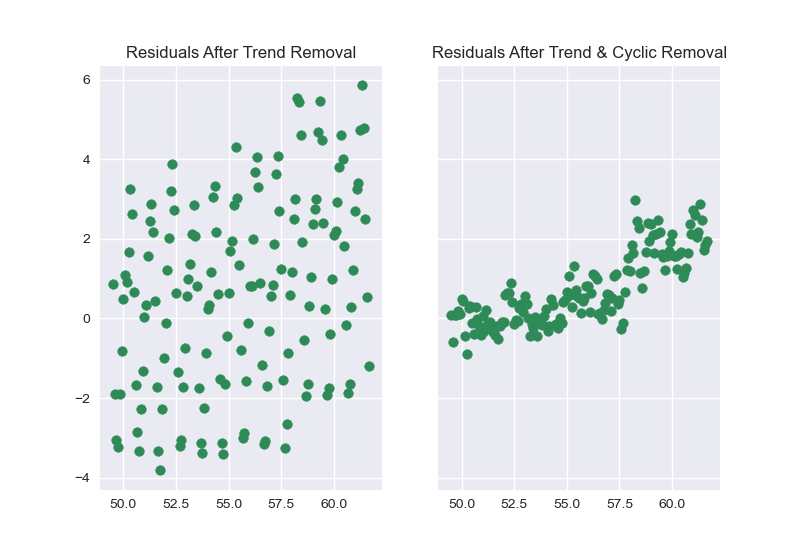
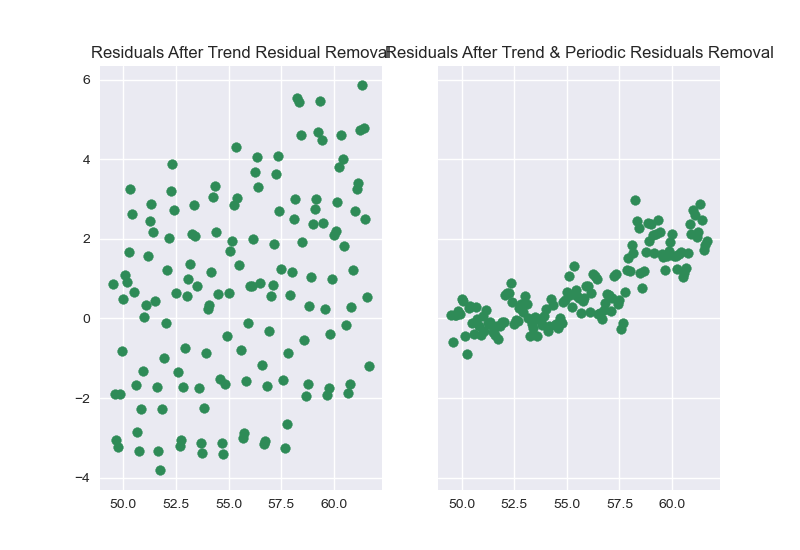
Modify docstrings and clean up function CO2_Model
Converted input arguments to tuples and outputs to dictionary to improve
code cleanliness

Changed region(s): [[0.125, 0.0618, 0.9688, 0.1236]]

diff --git a/CO2_Model.py b/CO2_Model.py
@@ -30,26 +30,27 @@ def load_data():
 
 
 def split_data(features, labels, split_frac=.8):
-    """Converts the feature and label Pandas series to numpy then splits into train and test sets"""
+    """Converts the feature (dates) and label (CO2) Pandas series to numpy then splits into train and test sets"""
     split_num = int(split_frac * len(features))
     features = features.to_numpy().reshape(-1, 1)
     labels = labels.to_numpy().reshape(-1, 1)
-    train_f = features[0:split_num]
-    test_f = features[split_num:]
-    train_l = labels[0:split_num]
-    test_l = labels[split_num:]
-    return train_f, test_f, train_l, test_l
+    train_date = features[0:split_num]
+    test_date = features[split_num:]
+    train_y = labels[0:split_num]
+    test_y = labels[split_num:]
+    return train_date, test_date, train_y, test_y
 
 
 def calc_error(y, predicted_y):
     ''' Computes the residuals, root mean squared error, and mean absolute percentage error'''
-    # TODO Add error_dict and return
+    error_dict = {}
     resid = np.zeros([len(y), 1])
     for i, (y_i, yp_i) in enumerate(zip(y, predicted_y)):
         resid[i] = y_i - yp_i
-    rmse = metrics.mean_squared_error(y, predicted_y) ** .5
-    mape = metrics.mean_absolute_percentage_error(y, predicted_y)
-    return resid, rmse, mape * 100
+    error_dict["resid"] = resid
+    error_dict["rmse"] = metrics.mean_squared_error(y, predicted_y) ** .5
+    error_dict["mape"] = 100 * metrics.mean_absolute_percentage_error(y, predicted_y)
+    return error_dict
 
 
 def interpolate1d_function(x, y, x_new):
@@ -58,56 +59,48 @@ def interpolate1d_function(x, y, x_new):
     return f(x_new)
 
 
-def poly_regression(x, y, test_x, test_y=None, degree=2, error=False):
+def linear_regression(x, test_x, y, test_y=None, error=False):
+    '''Performs linear regression fitted on x and y and returns the model parameters and predicted y
+    This will call the error function and return the error_dictionary if error=True
+    '''
+    lr = linear_model.LinearRegression()
+    lr.fit(x, y)
+    predicted_train_y = lr.predict(x)
+    predict_test_y = lr.predict(test_x)
+    linear_dict = {"coef":lr.coef_, "intercept": lr.intercept_,
+                   "predicted_train_y": predicted_train_y, "predicted_test_y": predict_test_y}
+    error_dict = calc_error(test_y, predict_test_y) if error else None
+    return linear_dict, error_dict
+
+
+def poly_regression(x, test_x, y, test_y=None, degree=2, error=False):
     '''Linearizes the values according to the degree of the polynomial and then calls linear regression
     This will call the error function and return the error_dictionary if error=True
     '''
     pr = PolynomialFeatures(degree=degree)
     x_poly = pr.fit_transform(x)
     test_x_poly = pr.fit_transform(test_x)
-    coef, intercept, predicted_y, predict_test_y = linear_regression(x_poly, y, test_x_poly, test_y)
-    # TODO remove if statement and put outputs in a dictionary
-    # error_dict = calc_error(test_y, predict_test_y) if error else None
-    # return coef, intercept, predicted_y, predict_test_y, error_dict
-    if error:
-        resid, rmse, mape = calc_error(test_y, predict_test_y)
-        return coef, intercept, predicted_y, predict_test_y, resid, rmse, mape
-    else:
-        return coef, intercept, predicted_y, predict_test_y
+    poly_dict, _ = linear_regression(x_poly, test_x_poly, y, test_y)
+    error_dict = calc_error(test_y, poly_dict["predicted_test_y"]) if error else None
+    return poly_dict, error_dict
 
 
-def linear_regression(x, y, test_x, test_y=None, error=False):
-    '''Performs linear regression fitted on x and y and returns the model parameters and predicted y
-    This will call the error function and return the error_dictionary if error=True
-    '''
-    lr = linear_model.LinearRegression()
-    lr.fit(x, y)
-    predicted_y = lr.predict(x)
-    predict_test_y = lr.predict(test_x)
-    # TODO remove if statement and put outputs in a dictionary
-    # error_dict = calc_error(test_y, predict_test_y) if error else None
-    # return lr.coef_, lr.intercept_, predicted_y, predict_test_y, error_dict
-    if error:
-        resid, rmse, mape = calc_error(test_y, predict_test_y)
-        return lr.coef_, lr.intercept_, predicted_y, predict_test_y, resid, rmse, mape
-    else:
-        return lr.coef_, lr.intercept_, predicted_y, predict_test_y
-
-
-def plot_data(train_x, train_y, test_x, test_y, pred_y_train, pred_y_test, title, error):
+def plot_data(split_data_tuple, predictions, title):
     '''Plots the training and test ground truth data and the predicted data'''
-    # TODO put input paramters in a dictionary
-    # TODO remove title and error and savefig. Figures arent changing
+    # TODO put input parameters in a tuple
+    train_x, test_x, train_y, test_y = split_data_tuple
+    pred_y_train, pred_y_test = predictions
     fig, ax = plt.subplots()
     ax.scatter(train_x + 1958 + 2 / 12, train_y, s=5, label="Training Data, Raw")
     ax.scatter(test_x + 1958 + 2 / 12, test_y, s=5, label="Test Data, Raw")
     ax.plot(train_x + 1958 + 2 / 12, pred_y_train, label="Predicted Training Data", c="royalblue", linewidth=.65)
     ax.plot(test_x + 1958 + 2 / 12, pred_y_test, label="Predicted Test Data", c="seagreen", linewidth=.65)
-    ax.set_title(title + " - " + error)
+    ax.set_title(title)
     ax.set_xlabel("Year")
     ax.set_ylabel("CO2 (ppm)")
     ax.legend()
-    # plt.savefig("CO2_Plots/" + title.replace(" ", "_") + ".png")
+    save_title = title.split()[0:3]
+    plt.savefig("CO2_Plots/" + "_".join(save_title))
     plt.show()
 
 
@@ -124,7 +117,7 @@ def plot_cyclic(x, y):
     y_interp = interpolate1d_function(x, y, x_interp)
     ax.plot(x_interp, y_interp)
     fig.tight_layout()
-    # plt.savefig("CO2_Plots/" + title.replace(" ", "_") + ".png")
+    plt.savefig(f"CO2_Plots/{title.replace(' ', '_')}.png")
     plt.show()
 
 
@@ -135,54 +128,39 @@ def sub_plot_data(test_x, resid_quadratic, resid_final):
     ax[1].scatter(test_x, resid_final, c="seagreen")
     ax[0].set_title("Residuals After Trend Residual Removal")
     ax[1].set_title("Residuals After Trend & Periodic Residuals Removal")
-    # plt.savefig("CO2_Plots/Residuals.png")
+    plt.savefig("CO2_Plots/Residuals.png")
+    plt.tight_layout()
     plt.show()
 
 
 def main():
     plot = True  # set to False to hide plots
     co2_df = load_data()
-    train_f, test_f, train_l, test_l = split_data(co2_df["Date Index"], co2_df.CO2)
+    split_data_tuple = split_data(co2_df["Date Index"], co2_df.CO2)
+    train_date_index, test_date_index, train_y, test_y = split_data_tuple
     # date = feature (f), co2 = labels (l)
 
     ### Linear Regression ###
-    (
-        coef_linear, intercept_linear,  # Coefficient(s) and y intercept
-        predicted_co2_train_linear, predicted_co2_test_linear,
-        resid_linear, rmse_linear, mape_linear  # Error metrics on test data
-    ) = linear_regression(train_f, train_l, test_f, test_l, error=True)
-    title_linear = "CO2 Linear Regression"
-    error_linear = f"RMSE: {round(rmse_linear, 2)}"
-    plot_data(train_f, train_l, test_f, test_l, predicted_co2_train_linear, predicted_co2_test_linear,
-              title_linear, error_linear) \
-        if plot is True else None
+    linear_dict, linear_error_dict = linear_regression(*split_data_tuple, error=True)
+    predictions_linear = linear_dict["predicted_train_y"], linear_dict["predicted_test_y"]
+    title_linear = f"CO2 Linear Regression - RMSE:{round(linear_error_dict['rmse'],2)}"
+    plot_data(split_data_tuple, predictions_linear, title_linear) if plot is True else None
 
     ### Quadratic Regression ###
-    (
-        coef_quadratic, intercept_quadratic,  # Coefficient(s) and y intercept
-        predicted_co2_train_quadratic, predicted_co2_test_quadratic,
-        resid_quadratic, rmse_quadratic, mape_quadratic  # Error metrics on test data
-    ) = poly_regression(train_f, train_l, test_f, test_l, degree=2, error=True)
-    title_quadratic = "CO2 Quadratic Regression"
-    error_quadratic = f"RMSE: {round(rmse_quadratic, 2)}"
-    plot_data(train_f, train_l, test_f, test_l, predicted_co2_train_quadratic, predicted_co2_test_quadratic,
-              title_quadratic, error_quadratic) \
-        if plot is True else None
+    quadratic_dict, quadratic_error_dict = poly_regression(*split_data_tuple, degree=2, error=True)
+    predictions_quadratic = quadratic_dict["predicted_train_y"], quadratic_dict["predicted_test_y"]
+    title_quadratic = f"CO2 Quadratic Regression - RMSE: {round(quadratic_error_dict['rmse'],2)}"
+    plot_data(split_data_tuple, predictions_quadratic, title_quadratic) if plot is True else None
 
     ### Cubic Regression ###
-    (
-        coef_cubic, intercept_cubic,  # Coefficient(s) and y intercept
-        predicted_co2_train_cubic, predicted_co2_test_cubic,
-        resid_cubic, rmse_cubic, mape_cubic  # Error metrics on test data
-    ) = poly_regression(train_f, train_l, test_f, test_l, degree=3, error=True)
-    title_cubic = "CO2 Cubic Regression"
-    error_cubic = f"RMSE: {round(rmse_cubic, 2)}"
-    plot_data(train_f, train_l, test_f, test_l, predicted_co2_train_cubic, predicted_co2_test_cubic,
-              title_cubic, error_cubic) \
-        if plot is True else None
+    cubic_dict, cubic_error_dict = poly_regression(*split_data_tuple, degree=3, error=True)
+    predictions_cubic = cubic_dict["predicted_train_y"], cubic_dict["predicted_test_y"]
+    title_cubic = f"CO2 Cubic Regression - RMSE: {round(cubic_error_dict['rmse'],2)}"
+    plot_data(split_data_tuple, predictions_cubic, title_cubic) if plot is True else None
 
     ### Fit Periodic Signal ###
-    train_resid_quadratic, _, _ = calc_error(predicted_co2_train_quadratic, train_l)
+    periodic_error_dict = calc_error(quadratic_dict["predicted_train_y"], train_y)
+    train_resid_quadratic = periodic_error_dict["resid"]
     zero_resid = np.zeros([len(co2_df) - len(train_resid_quadratic), 1])
     resid_joined = np.concatenate([-train_resid_quadratic, zero_resid])
     co2_df["resid"] = resid_joined
@@ -197,21 +175,19 @@ def main():
     plot_cyclic(cyclic_avg["Month"], cyclic_avg["Periodic Residual"]) if plot is True else None
 
     ### Final Model - Quadratic & Periodic Signals ###
-    coef = coef_quadratic.reshape(3)
+    coef = quadratic_dict["coef"].reshape(3)
     first_order, second_order = coef[1], coef[2]
     co2_df["predicted_y"] = co2_df["Date Index"] * first_order + \
                             co2_df["Date Index"] ** 2 * second_order + \
-                            intercept_quadratic + \
+                            quadratic_dict["intercept"] + \
                             co2_df["Periodic Residual"]
-    _, _, predicted_co2_train, predicted_co2_test = split_data(co2_df["Date Index"], co2_df["predicted_y"])
-    resid_test_final, rmse_test_final, mape_test_final = calc_error(test_l, predicted_co2_test)
-    title_final = "CO2 Periodic & Quadratic Regression"
-    error_final = f"RMSE: {round(rmse_test_final, 2)}"
-    plot_data(train_f, train_l, test_f, test_l, predicted_co2_train, predicted_co2_test, title_final, error_final) \
-        if plot is True else None
+    final_predictions = split_data(co2_df["Date Index"], co2_df["predicted_y"])
+    final_error_dict = calc_error(test_y, final_predictions[-1])
+    title_final = f"CO2 Complete Model - RMSE: {round(final_error_dict['rmse'], 2)}"
+    plot_data(split_data_tuple, final_predictions[-2:], title_final) if plot is True else None
 
     ### Residual plots from before and after periodicc signal fitting ###
-    sub_plot_data(test_f, resid_quadratic, resid_test_final) if plot is True else None
+    sub_plot_data(test_date_index, quadratic_error_dict["resid"], final_error_dict["resid"]) if plot is True else None
 
 
 if __name__ == "__main__":

diff --git a/CO2_Prediction.py b/CO2_Prediction.py
@@ -4,29 +4,28 @@ import matplotlib.pyplot as plt
 import CO2_Model
 import itertools
 
-# Train the model over the entire data set using quadratic and periodic regression.
-# Predict CO2 concentration over the next n years
+"""Train the model over the entire data set using quadratic and periodic regression.
+Predict CO2 concentration over the next n years.
+"""
 
 extrapolate_to_date = 2050  # will extrapolate until February of the selected year
 start_year = 1958  # Do not change this variable
+month = 1/12
 
 # Step 1: Load data, create training features and labels (until 2019), and create test features (future dates)
 co2_df = CO2_Model.load_data()
-train_f = co2_df["Date Index"].to_numpy().reshape(-1, 1)
-train_l = co2_df["CO2"].to_numpy().reshape(-1, 1)
-test_f = np.arange(train_f[-1] + 1/12, (extrapolate_to_date - start_year) + 1/12, 1/12).reshape(-1, 1)  # start year is 1958
+train_date_index = co2_df["Date Index"].to_numpy().reshape(-1, 1)
+train_y = co2_df["CO2"].to_numpy().reshape(-1, 1)
+test_date_index = np.arange(train_date_index[-1] + month, (extrapolate_to_date - start_year) + month, month).reshape(-1, 1)
 
 # Step 2: Perform quadratic regression to obtain coefficients & intercept and predicted CO2
-(
-    coef_quadratic, intercept_quadratic,  # Coefficient(s) and y intercept
-    predicted_co2_train_quadratic, predicted_co2_test_quadratic,
-) = CO2_Model.poly_regression(train_f, train_l, test_f, test_y=None, degree=2, error=False)
+regression_dict, _ = CO2_Model.poly_regression(train_date_index, test_date_index, train_y, test_y=None, degree=2)
 
 # Step 3: Calculate the residuals based on training data and labels
-train_resid_quadratic, _, _ = CO2_Model.calc_error(predicted_co2_train_quadratic, train_l)
+train_error_dict = CO2_Model.calc_error(regression_dict["predicted_train_y"], train_y)
 
 # Step 4: Use residuals to calculated monthly averaged periodic trend. Merge back with original df
-co2_df["resid"] = -train_resid_quadratic
+co2_df["resid"] = -train_error_dict["resid"]
 cyclic_avg = (
     co2_df.groupby('Month')
     .mean()["resid"]
@@ -35,7 +34,7 @@ cyclic_avg = (
     .rename(columns={"resid":"Periodic Residual"}))
 
 # Step 5: Create CO2 test dataframe with appropriate values for columns
-co2_test_df = pd.DataFrame(test_f.reshape(-1, ), columns=["Date Index"])
+co2_test_df = pd.DataFrame(test_date_index.reshape(-1, ), columns=["Date Index"])
 co2_test_df["Month"] = [(i + 8) % 12 + 1 for i in range(1, len(co2_test_df) + 1)]  # Creates month labels for co2_test.
 co2_test_df["CO2"] = np.NaN
 co2_test_df["Year"] = [2019] * 3 + \
@@ -49,21 +48,21 @@ co2_df = co2_df.append(co2_test_df, ignore_index=True)
 
 
 # Step 7: Calculate predicted CO2 based on quadratic & periodic regression
-coef = coef_quadratic.reshape(3)
+coef = regression_dict["coef"].reshape(3)
 first_order, second_order = coef[1], coef[2]
 co2_df["Predicted CO2 Concentration"] = co2_df["Date Index"] * first_order + \
                                         co2_df["Date Index"] ** 2 * second_order + \
-                                        intercept_quadratic + \
+                                        regression_dict["intercept"] + \
                                         co2_df["Periodic Residual"]
 
 
 # Step 8: Plot data
 fig, ax = plt.subplots()
-ax.scatter(co2_df["Date Index"] + start_year + 3/12, co2_df["CO2"], s=5, label="Training Data, Raw")
-ax.plot(co2_df["Date Index"] + start_year + 3/12, co2_df["Predicted CO2 Concentration"], label="Predicted Data", c="seagreen", linewidth=.65)
+ax.scatter(co2_df["Date Index"] + start_year + 3*month, co2_df["CO2"], s=5, label="Training Data, Raw")
+ax.plot(co2_df["Date Index"] + start_year + 3*month, co2_df["Predicted CO2 Concentration"], label="Predicted Data", c="seagreen", linewidth=.65)
 ax.set_title(f"Extrapolated CO2 Concentration to {extrapolate_to_date}")
 ax.set_ylabel("CO2 (ppm)")
 ax.set_xticks(np.arange(1950, extrapolate_to_date+10, 10))
 ax.legend()
-# plt.savefig("CO2_Plots/Extrapolated_CO2_Concentration.png")
+plt.savefig("CO2_Plots/Extrapolated_CO2_Concentration.png")
 plt.show()
